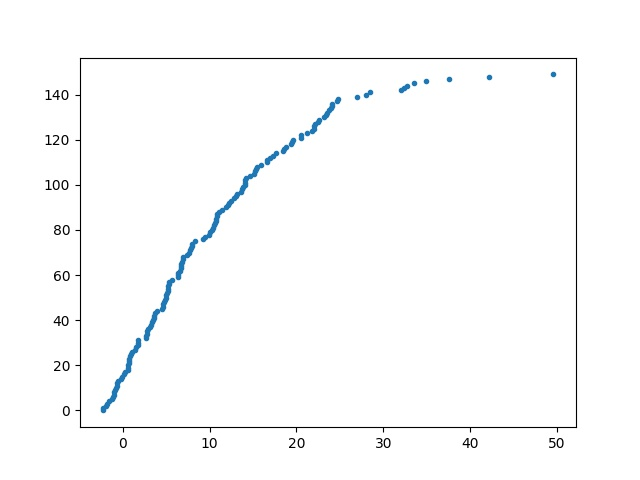
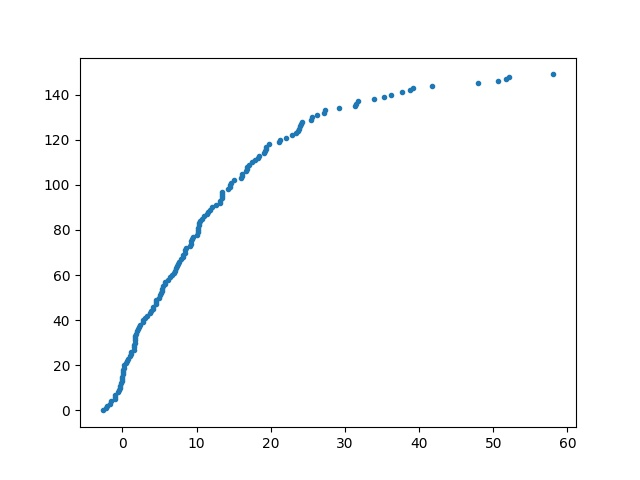
change fixed distance

diff --git a/src/hw5/prob1.py b/src/hw5/prob1.py
@@ -1,6 +1,6 @@
 import matplotlib.pyplot as plt
 from random import randint, uniform
-from math import sqrt, log10, log2
+from math import sqrt, log10, log2, pi, cos, sin
 from numpy import random
 
 
@@ -20,6 +20,7 @@ NEG_SQRT_3 = (-1) * sqrt(3)
 NEG_SQRT_3_div_2 = (-1) * (sqrt(3) / 2)
 UE_NUM = 75
 SCALE = 250 / SQRT_3_div_2
+PAIR_DIS = 200
 
 
 class Map():
@@ -108,16 +109,17 @@ class Bs():
         for i in range(UE_NUM):
             ue = Ue(self)
             self._ue.append(ue)
-            ue2 = Ue(self, 1, ue)
-            while sqrt((ue.x-ue2.x)**2 + (ue.y-ue2.y)**2) > 200:
-                ue2 = Ue(self, 1, ue)
+            ue2 = Ue(self, 1, ue, ue.x, ue.y)
             self._ue.append(ue2)
 
 
 class Ue():
-    def __init__(self, bs, recv=0, tx = None):
-        self._x, self._y = gen_loc()
-        self._dis = sqrt(self._x**2+self._y**2)
+    def __init__(self, bs, recv=0, tx=None, gen_x=None, gen_y=None):
+        if gen_x is None or gen_y is None:
+            self._x, self._y = gen_loc()
+        else:
+            self._x, self._y = gen_loc_with_initial(gen_x, gen_y)
+        self._dis = sqrt(self._x ** 2 + self._y ** 2)
         self._x += bs.x
         self._y += bs.y
         self._bs = bs
@@ -148,9 +150,22 @@ def gen_loc():
            (NEG_SQRT_3 * x + y >= NEG_SQRT_3):
             return x * SCALE, y * SCALE
 
+
+def gen_loc_with_initial(gen_x, gen_y):
+    while True:
+        theta = uniform(0, 2 * pi)
+        x = gen_x/SCALE + PAIR_DIS/SCALE * cos(theta)
+        y = gen_y/SCALE + PAIR_DIS/SCALE * sin(theta)
+        if (y <= SQRT_3_div_2) and \
+           (y >= NEG_SQRT_3_div_2) and \
+           (SQRT_3 * x + y <= SQRT_3) and \
+           (SQRT_3 * x + y >= NEG_SQRT_3) and \
+           (NEG_SQRT_3 * x + y <= SQRT_3) and \
+           (NEG_SQRT_3 * x + y >= NEG_SQRT_3):
+            return x * SCALE, y * SCALE
+
 def db_to_int(n):
     return 10 ** (n / 10)
-
 
 def down_rxp(dis):
     g = (B_H * UE_H) ** 2 / (dis ** EX)
@@ -164,6 +179,12 @@ def up_rxp(dis):
     rx_p = g_db + UE_P + TX_G + RX_G
     return rx_p
 
+def up_rxp_d2d(dis):
+    g = (UE_H * UE_H) ** 2 / (dis ** EX)
+    g_db = 10 * log10(g)
+    rx_p = g_db + UE_P + TX_G + RX_G
+    return rx_p
+
 def Sinr(power_db, inf):
     noise = BOLTZ_CONST * TEMP * BW / UE_NUM
     p = db_to_int(power_db)
@@ -172,7 +193,7 @@ def Sinr(power_db, inf):
 
 
 def shannon(sinr):
-    return BW / UE_NUM * log2(1 + db_to_int(sinr))
+    return BW * log2(1 + db_to_int(sinr))
 
 
 if __name__ == "__main__":
@@ -182,6 +203,7 @@ if __name__ == "__main__":
     cent_bs = clus.bs[0]
     cent_bs.gen_ue()
     clus.plot_map('./fig1_1.jpg')
+    print('problem 1-1')
     ################1-2-a################
 
     sinr_lst = []
@@ -196,6 +218,8 @@ if __name__ == "__main__":
     plt.scatter(sinr_lst, count_lst, marker='.')
     plt.savefig('./fig1_2_a.jpg')
     plt.close()
+    print('problem 1-2a')
+
     ################1-2-b################
 
     sinr_lst = []
@@ -214,27 +238,31 @@ if __name__ == "__main__":
     plt.scatter(sinr_lst, count_lst, marker='.')
     plt.savefig('./fig1_2_b.jpg')
     plt.close()
+    print('problem 1-2b')
+
     ################1-3################
 
     rate = 0
     for sinr in sinr_lst:
-        rate += (BW/UE_NUM * log2(1+db_to_int(sinr)))
-    print(f'Rate : {rate}')
+        rate += shannon(sinr)
+    print(f'Throughput of Downlink : {rate}')
+    print('problem 1-3')
+
     ################1-4################
 
     d2d_p = 0
     for ue in cent_bs.ue:
         if ue._recv == 1:
-            dis = sqrt((ue.x-ue._tx.x)**2+(ue.y-ue._tx.y)**2)
-            d2d_p += db_to_int(up_rxp(dis))
+            dis = sqrt((ue.x - ue._tx.x)**2+(ue.y - ue._tx.y)**2)
+            d2d_p += db_to_int(up_rxp_d2d(dis))
     sinr_lst = []
     count_lst = []
     count = 0
     for ue in cent_bs.ue:
         if ue._recv == 1:
             dis = sqrt((ue.x-ue._tx.x)**2+(ue.y-ue._tx.y)**2)
-            up_p = up_rxp(dis)
-            sinr_lst.append(Sinr(up_p, d2d_p-db_to_int(up_p)))
+            up_p = up_rxp_d2d(dis)
+            sinr_lst.append(Sinr(up_p, d2d_p - db_to_int(up_p)))
             count_lst.append(count)
             count += 1
     sinr_lst.sort()
@@ -242,46 +270,48 @@ if __name__ == "__main__":
     plt.scatter(sinr_lst, count_lst, marker='.')
     plt.savefig('./fig1_4.jpg')
     plt.close()
+    print('problem 1-4')
+
     ################1-5################
 
     rate = 0
     for sinr in sinr_lst:
         rate += shannon(sinr)
-    print(f'Rate : {rate}')
+    print(f'Throughput of D2D systems : {rate}')
+    print('problem 1-5')
+
     ################1-6################
     rate_lst = []
     ue_num_lst = []
 
     for i in range(10):
         UE_NUM += 25
-        for _ in range(20):
-            rate_lst_avg = []
-            ma = Map()
-            clus = Cluster(0, 0, ma)
-            cent_bs = clus.bs[0]
-            cent_bs.gen_ue()
-            d2d_p = 0
-            for ue in cent_bs.ue:
-                if ue._recv == 1:
-                    dis = sqrt((ue.x-ue._tx.x)**2+(ue.y-ue._tx.y)**2)
-                    d2d_p += db_to_int(up_rxp(dis))
-            sinr_lst = []
-            count_lst = []
-            count = 0
-            for ue in cent_bs.ue:
-                if ue._recv == 1:
-                    dis = sqrt((ue.x-ue._tx.x)**2+(ue.y-ue._tx.y)**2)
-                    up_p = up_rxp(dis)
-                    sinr_lst.append(Sinr(up_p, (d2d_p - db_to_int(up_p))))
-                    count_lst.append(count)
-                    count += 1
-            sinr_lst.sort()
-            rate = 0
-            for sinr in sinr_lst:
-                rate += shannon(sinr)
-            rate_lst_avg.append(rate)
-        rate_lst.append(sum(rate_lst_avg)/20)
+        ma = Map()
+        clus = Cluster(0, 0, ma)
+        cent_bs = clus.bs[0]
+        cent_bs.gen_ue()
+        d2d_p = 0
+        for ue in cent_bs.ue:
+            if ue._recv == 1:
+                dis = sqrt((ue.x - ue._tx.x) ** 2 + (ue.y - ue._tx.y) ** 2)
+                d2d_p += db_to_int(up_rxp_d2d(dis))
+        sinr_lst = []
+        count_lst = []
+        count = 0
+        for ue in cent_bs.ue:
+            if ue._recv == 1:
+                dis = sqrt((ue.x - ue._tx.x) ** 2 + (ue.y - ue._tx.y) ** 2)
+                up_p = up_rxp_d2d(dis)
+                sinr_lst.append(Sinr(up_p, (d2d_p - db_to_int(up_p))))
+                count_lst.append(count)
+                count += 1
+        sinr_lst.sort()
+        rate = 0
+        for sinr in sinr_lst:
+            rate += shannon(sinr)
+        rate_lst.append(rate)
         ue_num_lst.append(UE_NUM)
     plt.scatter(ue_num_lst, rate_lst, marker='.')
     plt.savefig('./fig1_6.jpg')
     plt.close()
+    print('problem 1-6')

diff --git a/src/hw5/prob2.py b/src/hw5/prob2.py
@@ -109,28 +109,29 @@ class Bs():
             ue = Ue(self)
             self._ue.append(ue)
             ue2 = Ue(self, 1, ue)
-            while sqrt((ue.x-ue2.x)**2 + (ue.y-ue2.y)**2) > 200:
-                ue2 = Ue(self, 1, ue)
+            while sqrt((ue.x - ue2.x) ** 2 + (ue.y - ue2.y) ** 2) > 200:
+                ue2 = Ue(self, 1, ue) #add Tx pair
             self._ue.append(ue2)
+            ue.set_pair(ue2)
 
     def cal_buffer(self):
         tot = 0
         for ue in self.ue:
-            tot += ue.buffer
+            if ue._recv == 1:
+                tot += ue._tx_buffer
         return tot
 
 
 class Ue():
-    def __init__(self, bs, recv=0, tx=None):
+    def __init__(self, bs, is_recv=0, pair=None):
         self._x, self._y = gen_loc()
         self._x += bs.x
         self._y += bs.y
         self._bs = bs
         self._rate = None
-        self._buffer = 0
-        self._recv = recv
-        self._tx = tx
-        self._tx_data = 0
+        self._is_recv = is_recv
+        self._pair = pair
+        self._tx_buffer = 0
 
     @property
     def x(self):
@@ -148,16 +149,15 @@ class Ue():
     def rate(self):
         return self._rate
 
-    @property
-    def buffer(self):
-        return self._buffer
-
-    def set_buffer(self, b):
-        self._buffer = b
+    def set_tx_buffer(self, da):
+        self._tx_buffer = da
 
     @rate.setter
     def rate(self, r):
         self._rate = r
+
+    def set_pair(self, ue):
+        self._pair = ue
 
 
 def gen_loc():
@@ -189,6 +189,12 @@ def up_rxp(dis):
     rx_p = g_db + UE_P + TX_G + RX_G
     return rx_p
 
+def up_rxp_d2d(dis):
+    g = (UE_H * UE_H) ** 2 / (dis ** EX)
+    g_db = 10 * log10(g)
+    rx_p = g_db + UE_P + TX_G + RX_G
+    return rx_p
+
 def Sinr(power_db, inf):
     noise = BOLTZ_CONST * TEMP * BW / UE_NUM
     p = db_to_int(power_db)
@@ -197,7 +203,7 @@ def Sinr(power_db, inf):
 
 
 def shannon(sinr):
-    return BW / UE_NUM * log2(1 + db_to_int(sinr))
+    return BW * log2(1 + db_to_int(sinr))
 
 
 if __name__ == "__main__":
@@ -205,8 +211,9 @@ if __name__ == "__main__":
     clus = Cluster(0, 0, ma)
     cent_bs = clus.bs[0]
     cent_bs.gen_ue()
+    # Calculate rate for downlink and uplink
     for ue in cent_bs.ue:
-        if ue._recv == 1:
+        if ue._is_recv == 1:
             inf_p = 0
             for j in range(1, len(clus.bs)):
                 dis = sqrt((clus.bs[j].x - ue.x) ** 2 + (clus.bs[j].y - ue.y) ** 2)
@@ -218,15 +225,36 @@ if __name__ == "__main__":
             sinr = Sinr(up_rxp(sqrt((cent_bs.x - ue.x) ** 2 + (cent_bs.y - ue.y) ** 2)), 0)
             shan = shannon(sinr)
             ue.rate = shan
-    for rate in range(1E5, 2E6, 2E5):
+
+    for rate in range(100000, 2000000, 200000):
         loss_data = 0
         total_data = 0
         for ue in cent_bs.ue:
-            if ue._recv == 0:
+            if ue._is_recv == 0: # Sending UE
                 data = random.poisson(lam=rate)
                 ue.set_buffer(max((data + ue.buffer - ue.rate), 0))
                 total_data += (data)
-                if data + ue.buffer - ue.rate <0:
-                    ue._tx_data = data + ue.buffer
+                if data + ue.buffer - ue.rate < 0:
+                    ue._pair._tx_buffer = data + ue.buffer
                 else:
-                    ue._tx_data = ue.rate
+                    ue._pair._tx_buffer = ue.rate
+                    ### 處理 BS bit loss
+
+        current = cent_bs.cal_buffer()
+        current_loss_data = current - BS_BUFFER_SIZE
+        if current_loss_data > 0:
+            loss_data += current_loss_data
+            for ue in cent_bs.ue:
+                if ue._is_recv == 1:
+                    ue.set_tx_buffer(ue._tx_buffer * BS_BUFFER_SIZE / current)
+
+        for ue in cent_bs.ue:
+            if ue._is_recv == 1:
+                data = ue._pair._tx_buffer
+                ue.set_buffer(max((data + ue.buffer - ue.rate), 0))
+        current = cent_bs.cal_buffer()
+        current_loss_data = current - BS_BUFFER_SIZE
+        if current_loss_data > 0:
+            loss_data += current_loss_data
+            for ue in cent_bs.ue:
+                ue.set_buffer(ue.buffer * UE_BUFFER_SIZE / current)
